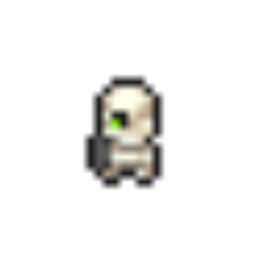
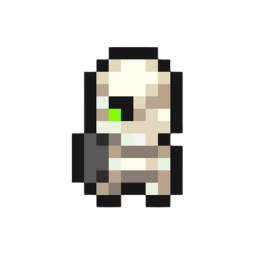
escolha do personagem ok

Changed region(s): [[0.25, 0.1562, 0.7188, 0.8125]]

diff --git a/src/Telas/EscolhaPersonagemPanel.java b/src/Telas/EscolhaPersonagemPanel.java
@@ -8,7 +8,9 @@ import java.awt.event.ActionListener;
 import java.awt.image.BufferedImage;
 import java.io.IOException;
 
+
 public class EscolhaPersonagemPanel extends JPanel {
+
     private GameFrame gameFrame;
     private CardLayout cardLayout;
     private JPanel mainPanel;
@@ -18,16 +20,28 @@ public class EscolhaPersonagemPanel extends JPanel {
     private BufferedImage feiticeiraImage;
     private String selectedCharacter;
 
+    Color brown = new Color(82, 37, 0);
+    Color lightBrown = new Color(195, 142, 112);
+    Color lightOrange = new Color(218, 126, 55);
+    Color purple = new Color(83, 55, 69);
+    Color lightPink = new Color(219, 168, 172);
+    Color green1 = new Color(64, 145, 108);
+
+
 
     public EscolhaPersonagemPanel(GameFrame gameFrame) {
         this.gameFrame = gameFrame;
         setLayout(new BorderLayout()); //BorderLayout: north, south, east, west, center
 
 
+        Font titleFont = new Font(Font.SANS_SERIF, Font.BOLD, 25);
+
         JLabel titulo = new JLabel("Escolha de Personagem", SwingConstants.CENTER);
         add(titulo, BorderLayout.NORTH);
 
-        messageLabel = new JLabel("Mensagem: ", SwingConstants.CENTER);
+        messageLabel = new JLabel("", SwingConstants.CENTER);
+        messageLabel.setOpaque(true);
+        messageLabel.setFont(titleFont);
         add(messageLabel, BorderLayout.NORTH);
 
         cardLayout = new CardLayout();
@@ -36,8 +50,8 @@ public class EscolhaPersonagemPanel extends JPanel {
 
         try {
             System.out.println("Entrou no try");
-            guerreiroImage = ImageIO.read(getClass().getResourceAsStream("/Guerreiro/Teste_guerreiro.png"));
-            feiticeiraImage = ImageIO.read(getClass().getResourceAsStream("/Feiticeira/Alchemist_down1.png"));
+            guerreiroImage = ImageIO.read(getClass().getResourceAsStream("/Guerreiro/Big_guerreiro2.png"));
+            feiticeiraImage = ImageIO.read(getClass().getResourceAsStream("/Feiticeira/Big_alchemist.png"));
 
             if (guerreiroImage == null) {
                 System.out.println("Imagem do guerreiro não encontrada dentro da escolha! Verifique o caminho.");
@@ -64,8 +78,8 @@ public class EscolhaPersonagemPanel extends JPanel {
 
                 // Desenhar a imagem do guerreiro
                 if (guerreiroImage != null) {
-                    int guerreiroX = 10; // Ajuste a posição X
-                    int guerreiroY = 50; // Ajuste a posição Y
+                    int guerreiroX = 60;
+                    int guerreiroY = 160;
                     int imgWidth = guerreiroImage.getWidth();
                     int imgHeight = guerreiroImage.getHeight();
 
@@ -84,16 +98,48 @@ public class EscolhaPersonagemPanel extends JPanel {
                     System.out.println("Imagem do guerreiro é nula.");
                 }
 
+                Font  font = new Font(Font.SANS_SERIF,  Font.BOLD, 30);
+                g2d.setFont(font);
+
                 // Desenhar um retângulo
-                int rectX = getWidth() - 210; // Ajuste a posição X
+                int rectX = getWidth() - 370; // Ajuste a posição X
                 int rectY = 50; // Ajuste a posição Y
-                int rectWidth = 200;
-                int rectHeight = 300;
-                g2d.setColor(Color.BLUE);
+                int rectWidth = 350;
+                int rectHeight = 500;
+                g2d.setColor(brown);
                 g2d.fillRect(rectX, rectY, rectWidth, rectHeight);
+                g2d.setColor(Color.WHITE);
+                g2d.drawString("Guerreiro", 540 , 105);
+
+                // Configurar a fonte para o texto de descrição
+                Font descriptionFont = new Font(Font.SANS_SERIF, Font.PLAIN, 20);
+                g2d.setFont(descriptionFont);
+
+                // Desenhar o texto de descrição linha por linha
+                String[] descriptionLines = {
+                        "Guerreiros são mestres em",
+                        "combate corpo a corpo.",
+                        "",
+                        "Nome: Chris",
+                        "",
+                        "Agilidade: 2",
+                        "",
+                        "Força: 5",
+                        "",
+                        "Defesa: 3"
+                };
+
+                int lineHeight = g2d.getFontMetrics().getHeight();
+                int textY =  175; // Posição Y inicial para o texto de descrição
+
+                for (String line : descriptionLines) {
+                    g2d.drawString(line, 480, textY);
+                    textY += lineHeight;
+                }
             }
         };
-        cardGuerreiro.setBackground(Color.GREEN); // Defina a cor de fundo para o card do guerreiro
+
+        cardGuerreiro.setBackground(lightBrown); // Defina a cor de fundo para o card do guerreiro
         cardGuerreiro.setPreferredSize(new Dimension(800, 600)); // Ajuste o tamanho do card conforme necessário
 
 
@@ -106,8 +152,8 @@ public class EscolhaPersonagemPanel extends JPanel {
 
                 // Desenhar a imagem do guerreiro
                 if (feiticeiraImage != null) {
-                    int guerreiroX = 10; // Ajuste a posição X
-                    int guerreiroY = 50; // Ajuste a posição Y
+                    int guerreiroX = 60; // Ajuste a posição X
+                    int guerreiroY = 160; // Ajuste a posição Y
                     int imgWidth = feiticeiraImage.getWidth();
                     int imgHeight = feiticeiraImage.getHeight();
 
@@ -126,17 +172,50 @@ public class EscolhaPersonagemPanel extends JPanel {
                     System.out.println("Imagem do guerreiro é nula.");
                 }
 
+                Font  font = new Font(Font.SANS_SERIF,  Font.BOLD, 30);
+                g2d.setFont(font);
+
                 // Desenhar um retângulo
-                int rectX = getWidth() - 210; // Ajuste a posição X
+                int rectX = getWidth() - 390; // Ajuste a posição X
                 int rectY = 50; // Ajuste a posição Y
-                int rectWidth = 200;
-                int rectHeight = 300;
-                g2d.setColor(Color.BLUE);
+                int rectWidth = 350;
+                int rectHeight = 500;
+                g2d.setColor(purple);
                 g2d.fillRect(rectX, rectY, rectWidth, rectHeight);
+                g2d.setColor(Color.WHITE);
+                g2d.drawString("Feiticeira", 520 , 105);
+
+                // Configurar a fonte para o texto de descrição
+                Font descriptionFont = new Font(Font.SANS_SERIF, Font.PLAIN, 20);
+                g2d.setFont(descriptionFont);
+
+                // Desenhar o texto de descrição linha por linha
+                String[] descriptionLines = {
+                        "Feiticeiras são poderosas",
+                        "em magia e feitiçaria. Isso ",
+                        "lhe traz uma grande defesa",
+                        "",
+                        "Nome: Lyra",
+                        "",
+                        "Agilidade: 4",
+                        "",
+                        "Força: 3",
+                        "",
+                        "Defesa: 5"
+                };
+
+                int lineHeight = g2d.getFontMetrics().getHeight();
+                int textY =  175; // Posição Y inicial para o texto de descrição
+
+                for (String line : descriptionLines) {
+                    g2d.drawString(line, 470, textY);
+                    textY += lineHeight;
+                }
+
             }
         };
-        cardGuerreiro.setBackground(Color.GREEN); // Defina a cor de fundo para o card do guerreiro
-        cardGuerreiro.setPreferredSize(new Dimension(800, 600)); // Ajuste o tamanho do card conforme necessário
+        cardFeiticeira.setBackground(lightBrown); // Defina a cor de fundo para o card do guerreiro
+        cardFeiticeira.setPreferredSize(new Dimension(800, 600)); // Ajuste o tamanho do card conforme necessário
 
 
 
@@ -174,6 +253,8 @@ public class EscolhaPersonagemPanel extends JPanel {
             public void actionPerformed(ActionEvent e) {
                 selectedCharacter = "Guerreiro";
                 cardLayout.show(mainPanel, "Guerreiro");
+                messageLabel.setBackground(green1);
+                messageLabel.setForeground(Color.WHITE);
                 messageLabel.setText("Guerreiro Selecionado");
                 messageLabel.setPreferredSize(new Dimension (300,100));
             }
@@ -186,6 +267,8 @@ public class EscolhaPersonagemPanel extends JPanel {
             public void actionPerformed(ActionEvent e) {
                 selectedCharacter = "Feiticeira";
                 cardLayout.show(mainPanel, "Feiticeira");
+                messageLabel.setBackground(green1);
+                messageLabel.setForeground(Color.WHITE);
                 messageLabel.setText("Feiticeira Selecionada");
                 messageLabel.setPreferredSize(new Dimension (300,100));
             }
@@ -236,22 +319,22 @@ public class EscolhaPersonagemPanel extends JPanel {
 
             System.out.println("Entrou no paint");
 
-            // Desenhar a imagem do guerreiro
+            // imagem do guerreiro
             if (guerreiroImage != null) {
-                int guerreiroX = 10; // Ajuste a posição X
-                int guerreiroY = 50; // Ajuste a posição Y
+                int guerreiroX = 10;
+                int guerreiroY = 50;
                 g2d.drawImage(guerreiroImage, guerreiroX, guerreiroY, this);
             }
 
-            // Desenhar um retângulo do outro lado
-            int rectX = getWidth() - 210; // Ajuste a posição X
-            int rectY = 50; // Ajuste a posição Y
+            // retângulo do outro lado
+            int rectX = getWidth() - 210;
+            int rectY = 50;
             int rectWidth = 200;
             int rectHeight = 300;
             g2d.setColor(Color.BLUE);
             g2d.fillRect(rectX, rectY, rectWidth, rectHeight);
 
-            drawingPanel.setPreferredSize(new Dimension(300, 600)); // Ajuste o tamanho conforme necessário
+            drawingPanel.setPreferredSize(new Dimension(300, 600));
 
             add(drawingPanel, BorderLayout.WEST); // Adiciona o painel de desenho ao lado dos cards
             //add(controlCardsButton, BorderLayout.SOUTH);
